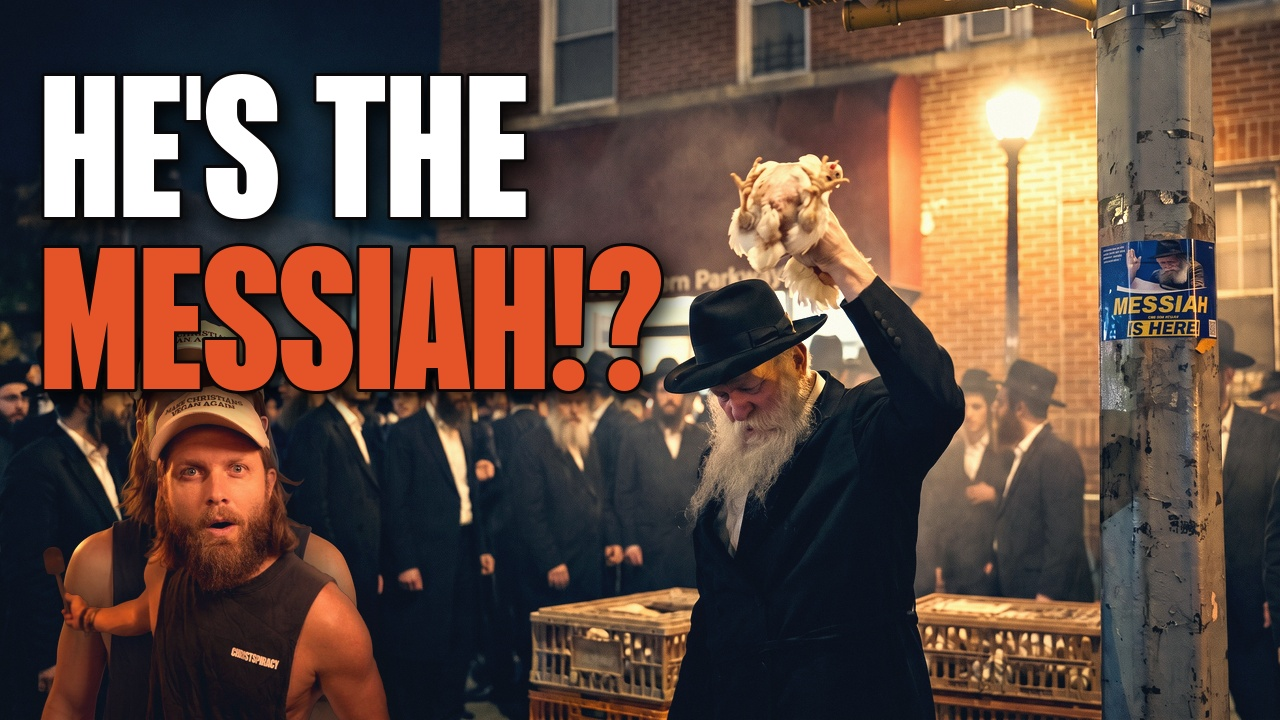
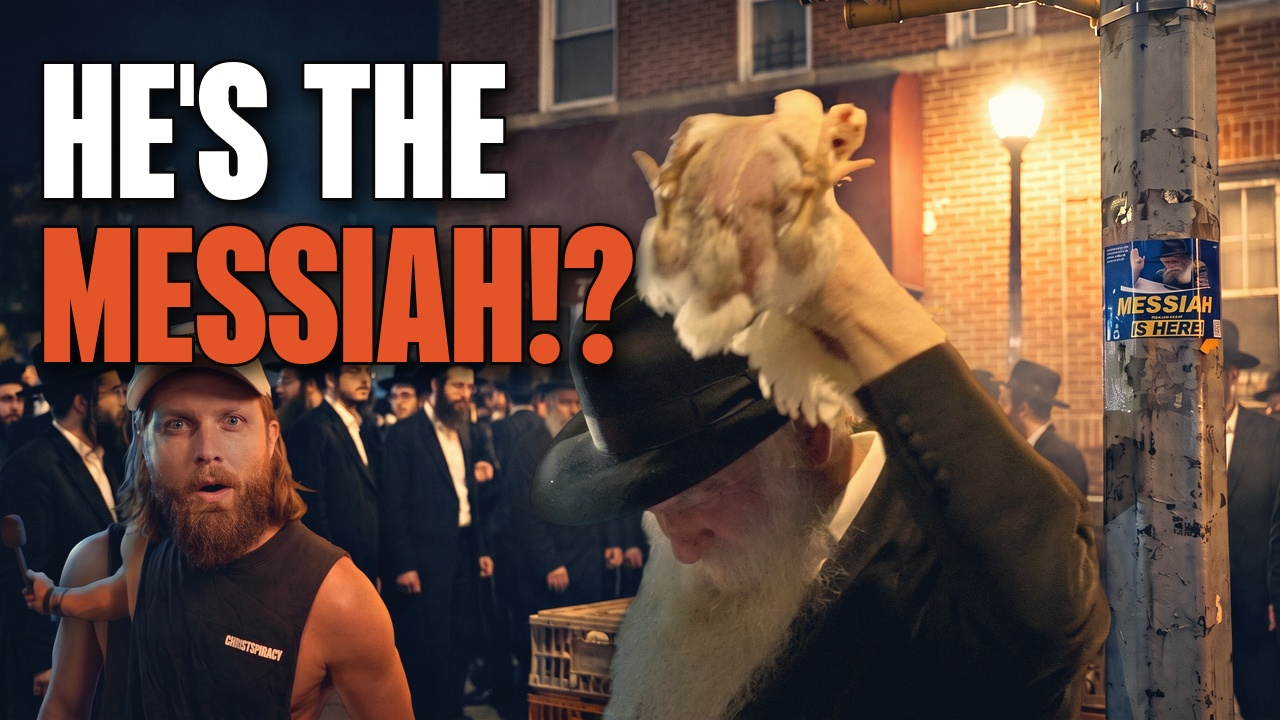
kaporos-part3: real-pixel collage relit by Nano Banana, d/e re-typeset, text-free plates
Claude-Session: https://claude.ai/code/session_01HtEgFvxjez9kH7Myy5iKKf

diff --git a/brand/thumbnails/videos/kaporos-part3/NOTES.md b/brand/thumbnails/videos/kaporos-part3/NOTES.md
@@ -14,3 +14,8 @@
 - e = Artlist plate 1 (assets/artlist_plate_1_notext.jpg, AI Kameron kept, cap intact) + PP Eiko Black Italic accent.
 - Grok v1 (old press still) and v2 (new brief) screenshots in out/_grok_designs*.png; comparison sheets out/_vs_grok.jpg and out/_vs_grok_artlist.jpg. Grok v1 repainted both faces; v2 is close but only available as screenshots (no download taken).
 - Artlist refs: assetIds 69316504 (studio selfie), 5635d446 (C9304 frame), 4f7a4919 (sticker); generations 01a10e0f (4 designs), 01a10e11-dbe4/dbe6 (text-free 4 and 1), 01a10e13 (text-free 4, cap still lost). ~1,120 credits total.
+
+## Relight pass (2026-10-05, later)
+- Pipeline that finally kept both likenesses: build the collage in-house with REAL pixels (assets/composite_d2_notext.jpg = Artlist scene plate + rabbi_cutout.png from C9304 + kameron_studio_cutout.png), upload it, and ask Nano Banana Pro only to relight/integrate ("do not repaint... pixel-identical"). Results assets/relit_1..4.jpg (1-2 subtle, 3-4 chiaroscuro/A24). relit_2 kept cap text + shirt + sticker; relit_4 blanked the sticker (patched with the sticker layer in e.json).
+- d = relit_2 + PP Formula; e = relit_4 + PP Eiko accent + real sticker patch. relit_2/relit_4 are the text-free plates if the type is placed by hand.
+- Artlist generations 01a10e27-53ff / 01a10e27-5417 (640 credits).
